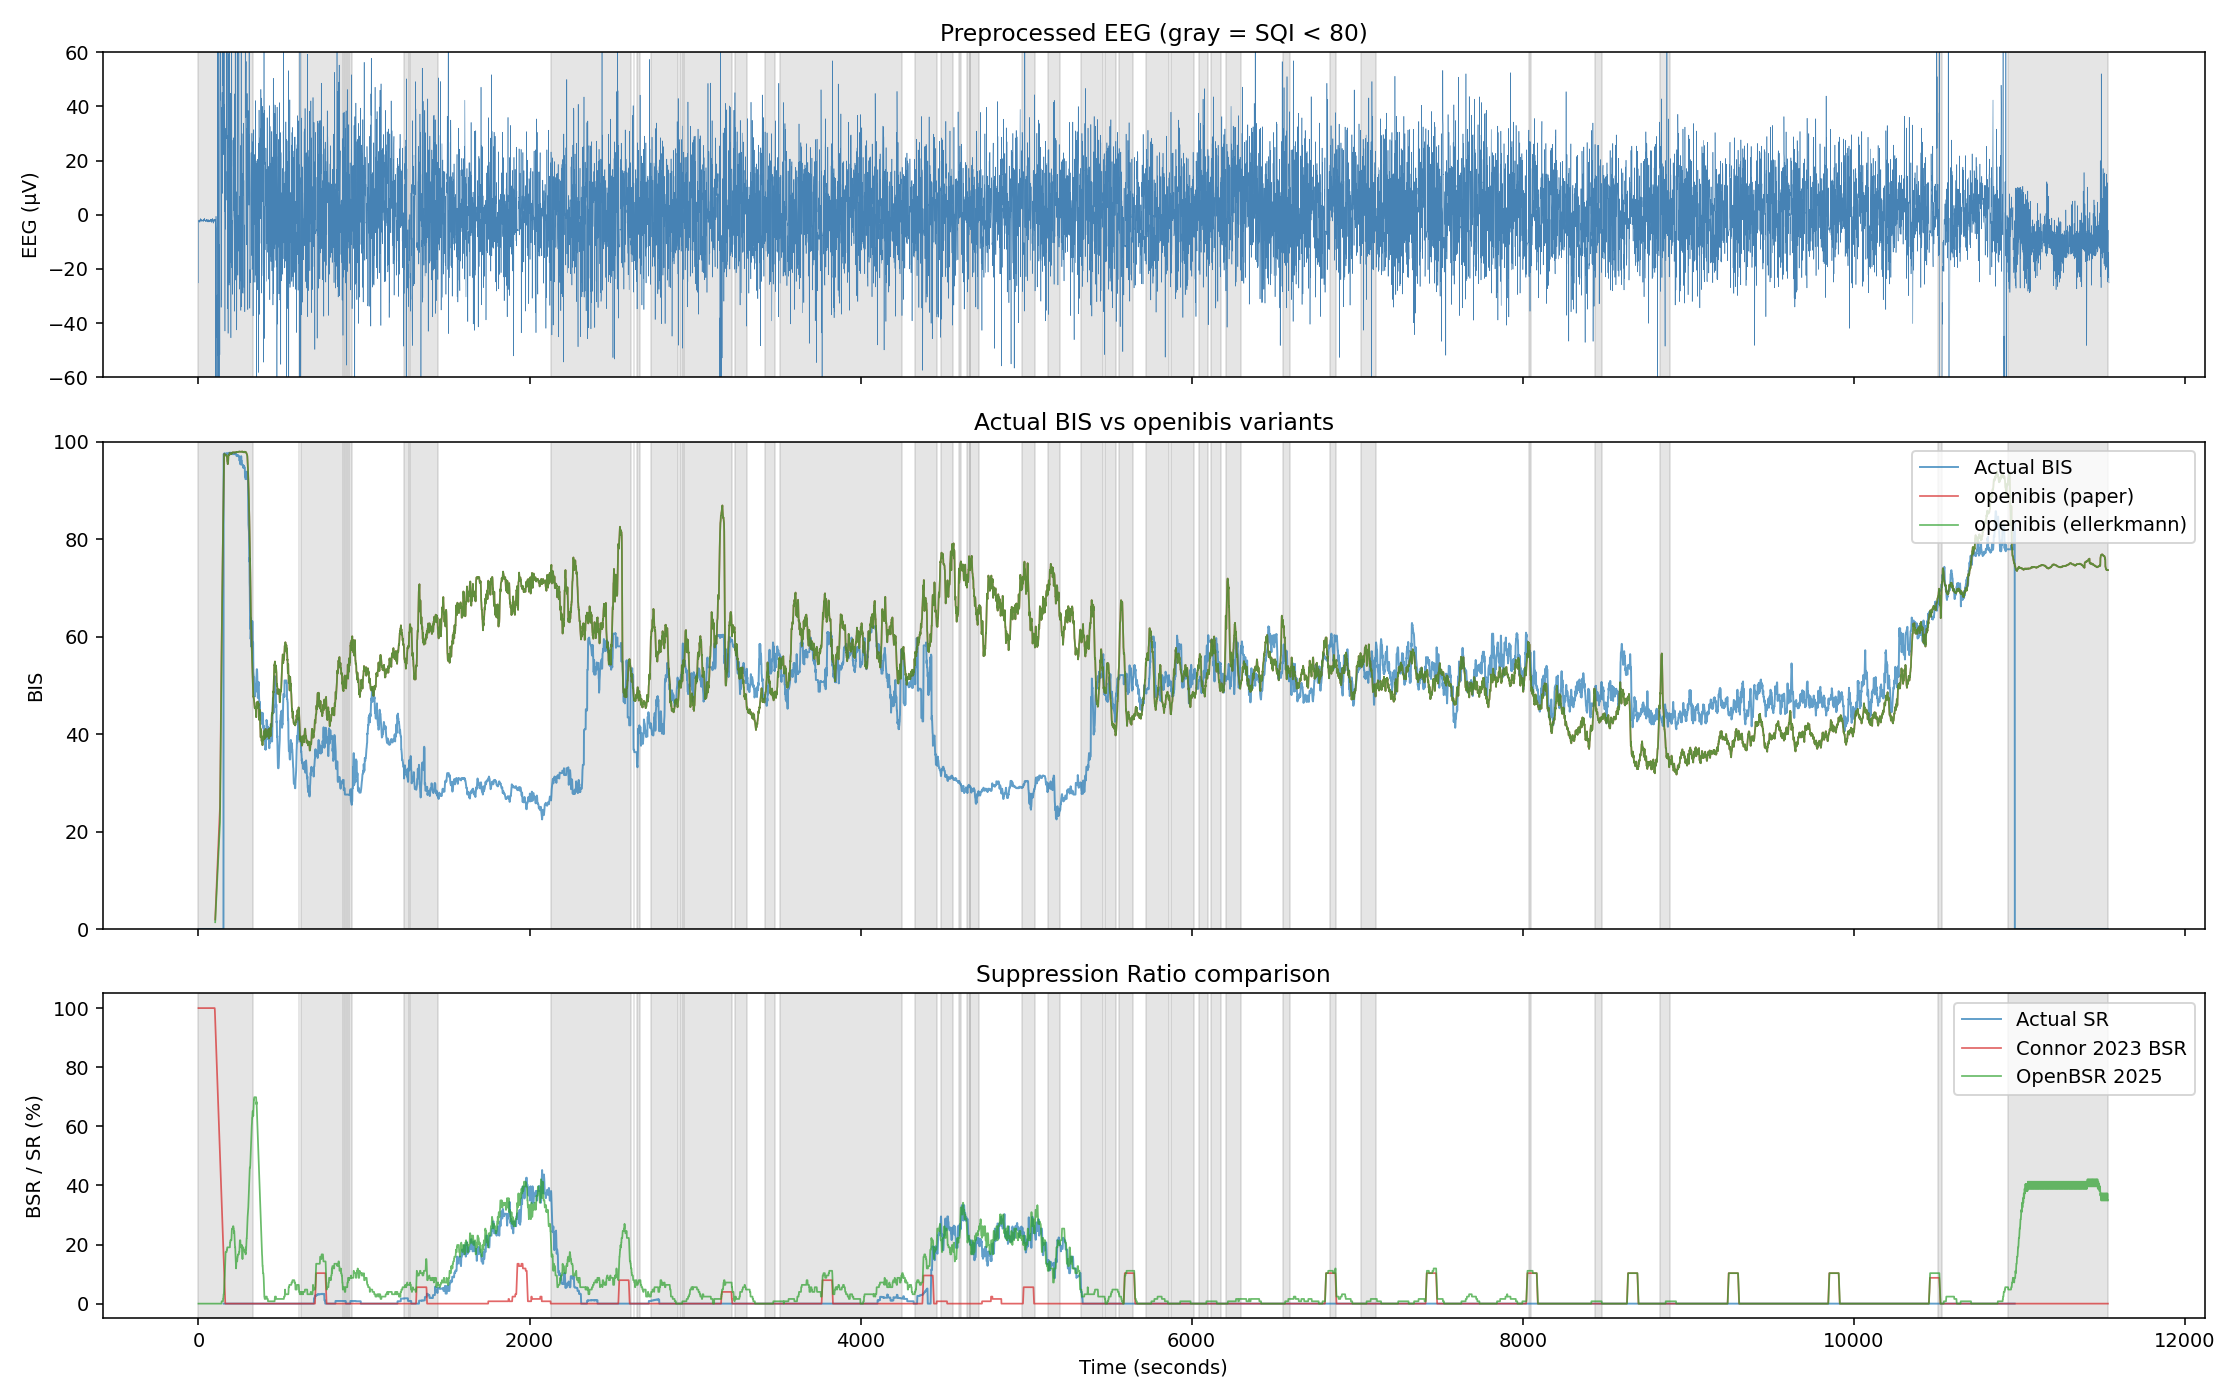
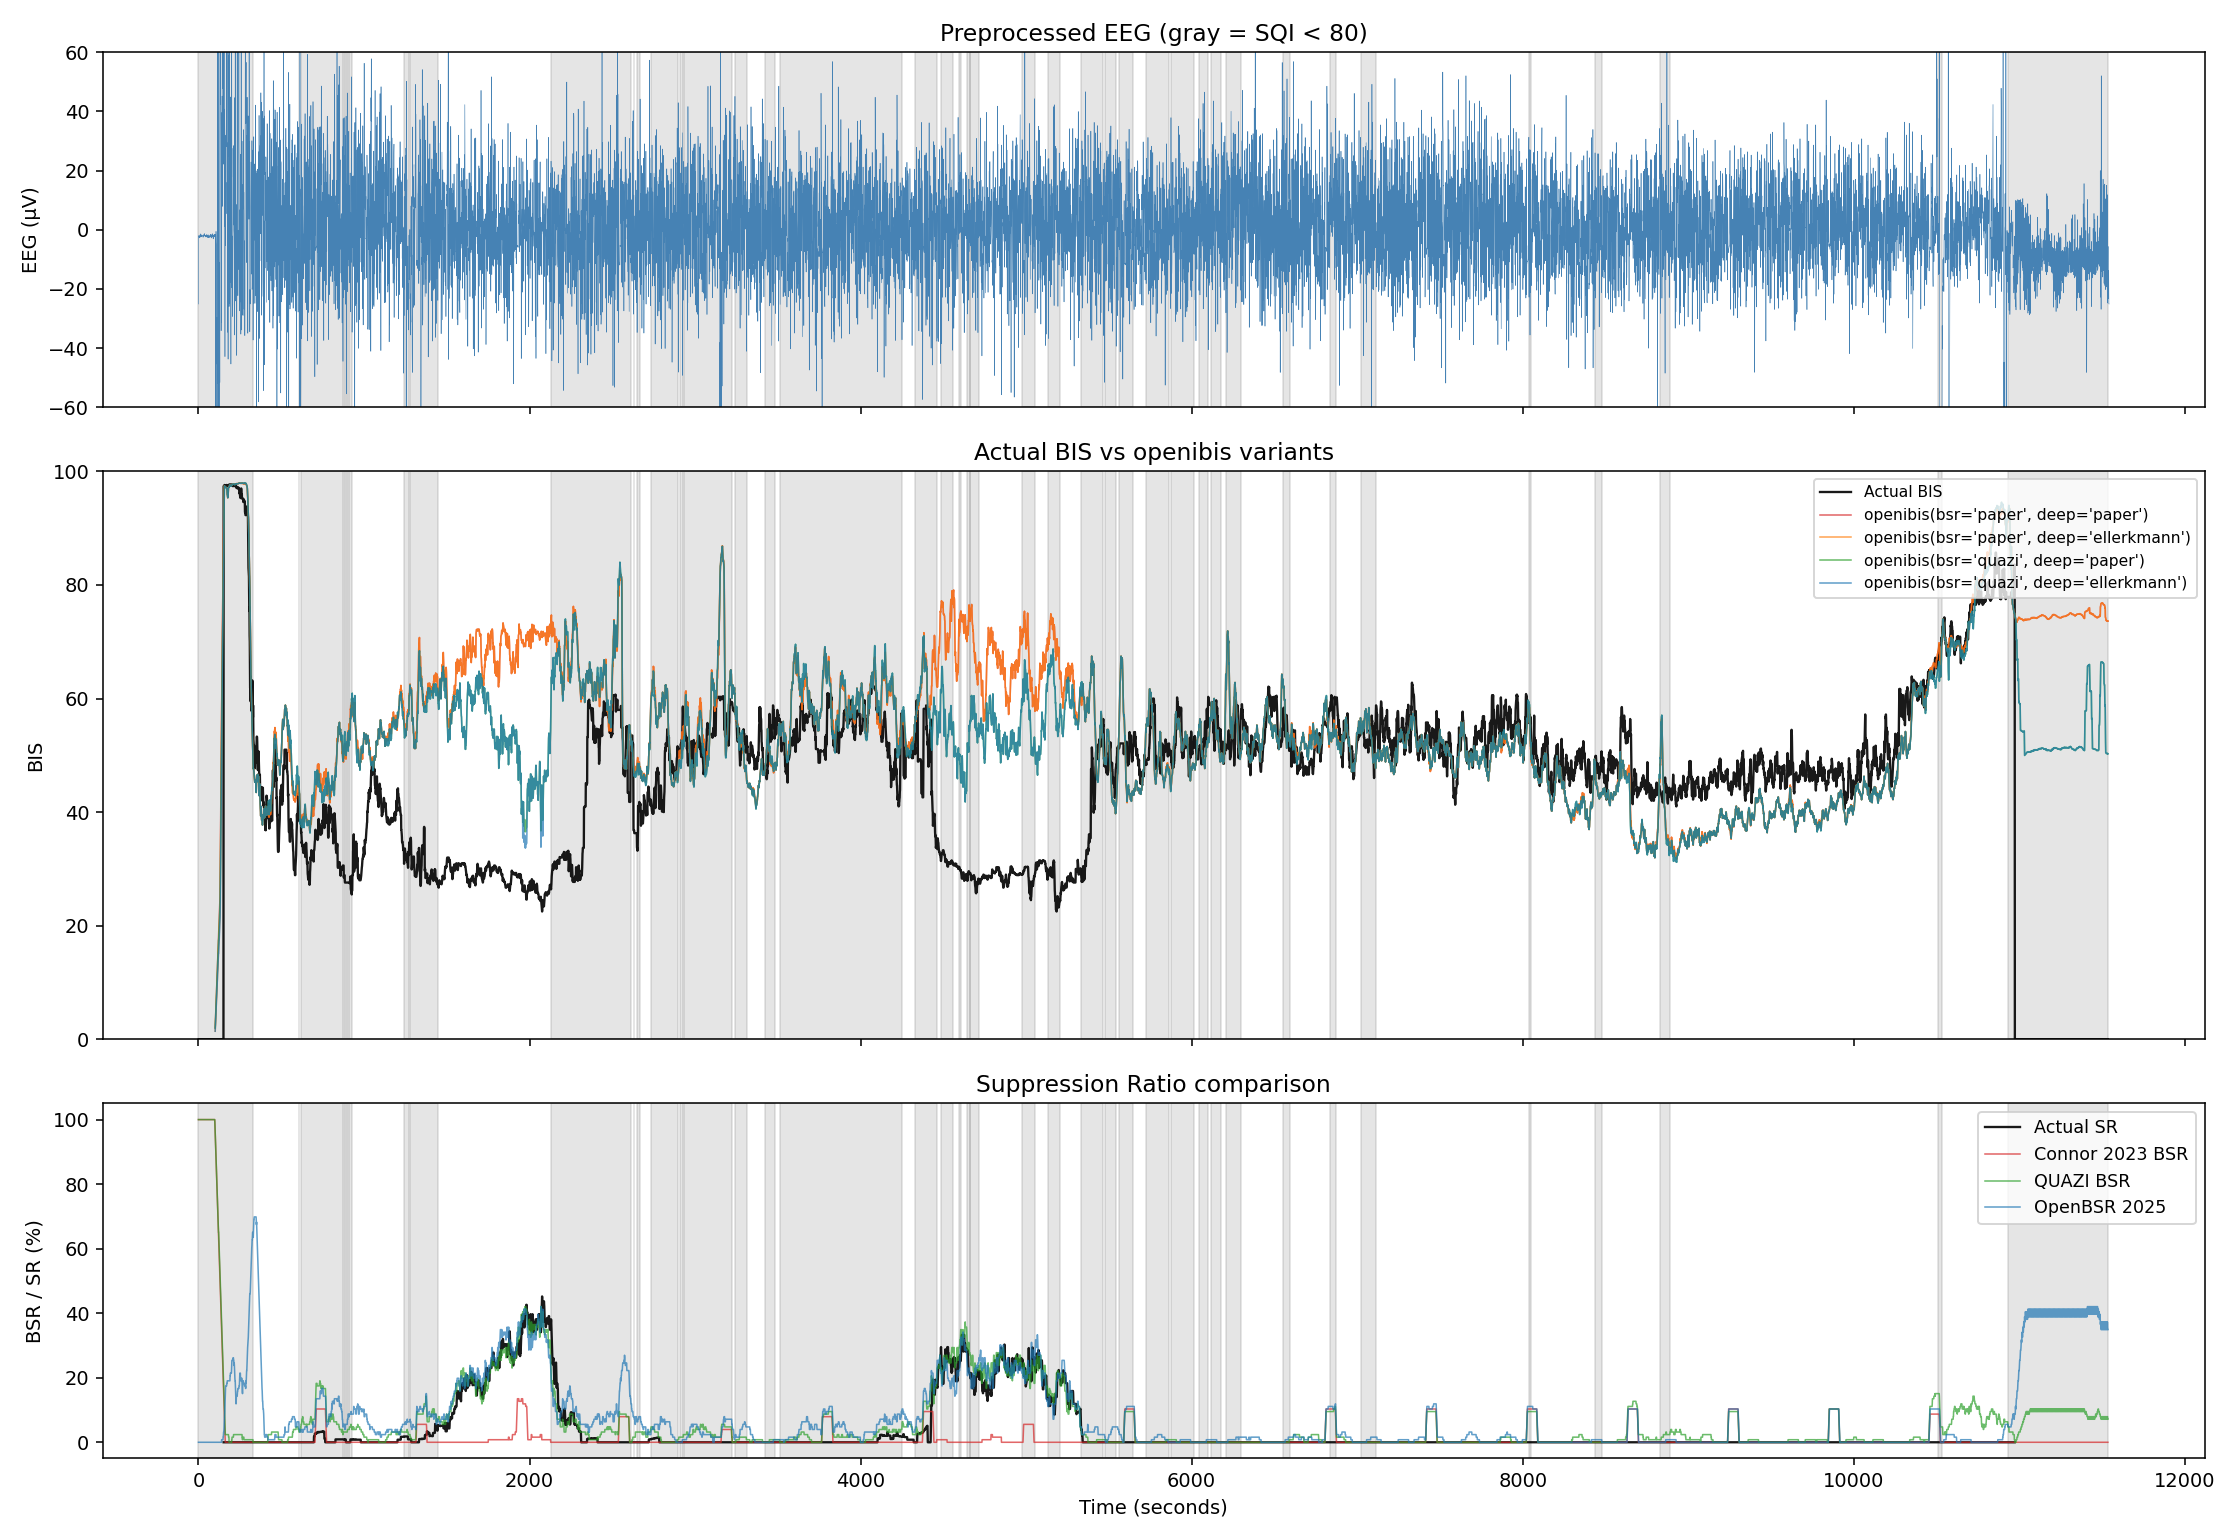
Add QUAZI-style BSR variant to openibis
openibis() now accepts bsr={"paper","quazi"}:
  * "paper" — Connor 2023 (no HP, 5 µV / 1-s, baseline-detrended)
  * "quazi" — pre-2023 BIS convention (1 Hz Butterworth HP +
     10 µV max|x| over 0.5 s); empirically tracks BIS Vista's SR

Validation on 1.vital, SQI>=80, N=6,752:
  openibis(paper, paper)        MAE=11.58  r=0.048  Lin_rc=0.043
  openibis(paper, ellerkmann)   MAE=11.58  r=0.048  Lin_rc=0.043
  openibis(quazi, paper)        MAE= 9.21  r=0.399  Lin_rc=0.379
  openibis(quazi, ellerkmann)   MAE= 9.20  r=0.400  Lin_rc=0.381
  bsr(paper)                    MAE= 4.59  r=0.121  Lin_rc=0.054
  bsr(quazi)                    MAE= 2.13  r=0.937  Lin_rc=0.922
  openbsr (Connor 2025)         MAE= 2.45  r=0.841  Lin_rc=0.821

QUAZI BSR is the strongest single-detector match against BIS Vista's
SR on this case. The remaining gap (r=0.40 on full BIS) is in the
paper mixer formula, which yields a ~20-point positive bias against
BIS Vista (BIS Vista vs BIS A-2000 calibration likely differs).
Vista-tuned mixer variant is Phase 2.

diff --git a/scripts/01_validate_1vital.py b/scripts/01_validate_1vital.py
@@ -1,14 +1,8 @@
 """Validate openibis variants on the bundled 1.vital case.
 
-Computes:
-  * openibis(deep="paper")
-  * openibis(deep="ellerkmann")
-  * Connor 2023 BSR
-  * OpenBSR 2025 (best-effort prose port)
-
-and compares all four against the BIS Vista's actual BIS / SR tracks.
-Filters to SQI ≥ 80 epochs only. Reports MAE, Pearson r, and Lin's
-concordance for each BIS variant, and MAE / r for both BSR variants.
+Computes the full bsr × deep grid plus standalone BSR detectors, and
+compares each against the BIS Vista's actual ``BIS/BIS`` and ``BIS/SR``
+tracks (SQI ≥ 80 epochs only).
 
 Usage::
 
@@ -21,7 +15,6 @@ from pathlib import Path
 
 import numpy as np
 
-# Make `openeeg` importable when running this script from repo root.
 sys.path.insert(0, str(Path(__file__).resolve().parents[1]))
 
 from openeeg import openibis, openbsr
@@ -37,7 +30,6 @@ SQI_THRESH = 80
 
 
 def lin_concordance(x: np.ndarray, y: np.ndarray) -> float:
-    """Lin's concordance correlation coefficient."""
     mx, my = x.mean(), y.mean()
     vx, vy = x.var(), y.var()
     cov = np.mean((x - mx) * (y - my))
@@ -45,10 +37,9 @@ def lin_concordance(x: np.ndarray, y: np.ndarray) -> float:
 
 
 def preprocess_eeg(raw: np.ndarray) -> np.ndarray:
-    """Interpolate short NaN gaps, zero-fill the rest, baseline-correct."""
     eeg = raw.copy()
     nan_mask = np.isnan(eeg)
-    max_gap = int(FS * 0.05)  # ≤50 ms gaps are interpolated
+    max_gap = int(FS * 0.05)
     diff = np.diff(np.concatenate(([0], nan_mask.astype(int), [0])))
     starts = np.where(diff == 1)[0]
     ends = np.where(diff == -1)[0]
@@ -58,6 +49,17 @@ def preprocess_eeg(raw: np.ndarray) -> np.ndarray:
     eeg[np.isnan(eeg)] = 0.0
     eeg = eeg - np.median(eeg[~nan_mask])
     return eeg
+
+
+def metrics(actual: np.ndarray, predicted: np.ndarray, valid: np.ndarray):
+    a, p = actual[valid], predicted[valid]
+    mae = float(np.mean(np.abs(p - a)))
+    if a.std() > 0 and p.std() > 0:
+        r = float(np.corrcoef(a, p)[0, 1])
+        rc = lin_concordance(a, p)
+    else:
+        r, rc = float("nan"), float("nan")
+    return mae, r, rc
 
 
 def main() -> None:
@@ -71,76 +73,66 @@ def main() -> None:
     eeg = preprocess_eeg(eeg_raw)
     print(f"  EEG samples: {len(eeg):,}  duration: {len(eeg)/FS/60:.1f} min")
 
-    print("Running openibis(deep='paper') ...")
-    bis_paper = openibis(eeg, deep="paper")
-    print("Running openibis(deep='ellerkmann') ...")
-    bis_eller = openibis(eeg, deep="ellerkmann")
-    print("Running Connor 2023 BSR ...")
-    bsr_c23 = openibis_bsr(eeg)
-    print("Running OpenBSR 2025 ...")
-    bsr_c25 = openbsr(eeg)
+    bis_grid = {}
+    for bsr_kind in ("paper", "quazi"):
+        for deep in ("paper", "ellerkmann"):
+            print(f"  openibis(bsr={bsr_kind!r}, deep={deep!r}) ...")
+            bis_grid[(bsr_kind, deep)] = openibis(eeg, bsr=bsr_kind, deep=deep)
 
-    # Align everything to 1 Hz (BIS Vista output rate)
-    bis_paper_1hz = bis_paper[::2]
-    bis_eller_1hz = bis_eller[::2]
-    bsr_c23_1hz = bsr_c23[::2]
-    bsr_c25_1hz = bsr_c25[::2]
+    print("  bsr(kind='paper') ...")
+    bsr_paper = openibis_bsr(eeg, kind="paper")
+    print("  bsr(kind='quazi') ...")
+    bsr_quazi = openibis_bsr(eeg, kind="quazi")
+    print("  openbsr() ...")
+    bsr_openbsr = openbsr(eeg)
 
-    n = min(len(bis_actual), len(bis_paper_1hz), len(sqi_actual), len(sr_actual))
+    bis_1hz = {k: v[::2] for k, v in bis_grid.items()}
+    bsr_paper_1hz = bsr_paper[::2]
+    bsr_quazi_1hz = bsr_quazi[::2]
+    bsr_openbsr_1hz = bsr_openbsr[::2]
+
+    n = min(len(bis_actual), *[len(v) for v in bis_1hz.values()],
+            len(sqi_actual), len(sr_actual))
     bis_actual = bis_actual[:n]
     sqi_actual = sqi_actual[:n]
     sr_actual = sr_actual[:n]
-    bis_paper_1hz = bis_paper_1hz[:n]
-    bis_eller_1hz = bis_eller_1hz[:n]
-    bsr_c23_1hz = bsr_c23_1hz[:n]
-    bsr_c25_1hz = bsr_c25_1hz[:n]
+    bis_1hz = {k: v[:n] for k, v in bis_1hz.items()}
+    bsr_paper_1hz = bsr_paper_1hz[:n]
+    bsr_quazi_1hz = bsr_quazi_1hz[:n]
+    bsr_openbsr_1hz = bsr_openbsr_1hz[:n]
 
-    # BIS metrics (SQI ≥ 80)
-    print("\n=== BIS comparison (SQI >= {}) ===".format(SQI_THRESH))
-    valid = (
+    valid_bis = (
         ~np.isnan(bis_actual)
-        & ~np.isnan(bis_paper_1hz)
-        & ~np.isnan(bis_eller_1hz)
         & ~np.isnan(sqi_actual)
         & (sqi_actual >= SQI_THRESH)
+        & np.all([~np.isnan(v) for v in bis_1hz.values()], axis=0)
     )
-    print(f"  N (valid epochs): {int(valid.sum()):,} / {n:,}")
+    print(f"\n=== BIS comparison (SQI>={SQI_THRESH}, N={int(valid_bis.sum()):,}) ===")
+    print(f"{'variant':<32s}  {'MAE':>6s}  {'r':>6s}  {'Lin_rc':>6s}")
+    for (bsr_kind, deep), pred in bis_1hz.items():
+        mae, r, rc = metrics(bis_actual, pred, valid_bis)
+        label = f"openibis(bsr={bsr_kind!r}, deep={deep!r})"
+        print(f"{label:<32s}  {mae:6.2f}  {r:6.3f}  {rc:6.3f}")
 
-    rows = []
-    for name, pred in [
-        ("openibis (paper)", bis_paper_1hz),
-        ("openibis (ellerkmann)", bis_eller_1hz),
-    ]:
-        a = bis_actual[valid]
-        p = pred[valid]
-        mae = float(np.mean(np.abs(p - a)))
-        r = float(np.corrcoef(a, p)[0, 1])
-        rc = lin_concordance(a, p)
-        rows.append((name, mae, r, rc))
-        print(f"  {name:30s}  MAE={mae:5.2f}   r={r:.3f}   Lin_rc={rc:.3f}")
-
-    # BSR metrics: compare against BIS Vista SR (which is its commercial BSR)
-    print("\n=== BSR comparison (SQI >= {}) ===".format(SQI_THRESH))
     valid_bsr = (
         ~np.isnan(sr_actual)
-        & ~np.isnan(bsr_c23_1hz)
-        & ~np.isnan(bsr_c25_1hz)
         & ~np.isnan(sqi_actual)
         & (sqi_actual >= SQI_THRESH)
+        & ~np.isnan(bsr_paper_1hz)
+        & ~np.isnan(bsr_quazi_1hz)
+        & ~np.isnan(bsr_openbsr_1hz)
     )
-    print(f"  N (valid epochs): {int(valid_bsr.sum()):,}")
+    print(f"\n=== BSR comparison (SQI>={SQI_THRESH}, N={int(valid_bsr.sum()):,}) ===")
+    print(f"{'variant':<32s}  {'MAE':>6s}  {'r':>6s}  {'Lin_rc':>6s}")
     for name, pred in [
-        ("Connor 2023 BSR", bsr_c23_1hz),
-        ("OpenBSR 2025", bsr_c25_1hz),
+        ("Connor 2023 BSR (paper)", bsr_paper_1hz),
+        ("QUAZI BSR", bsr_quazi_1hz),
+        ("OpenBSR 2025", bsr_openbsr_1hz),
     ]:
-        a = sr_actual[valid_bsr]
-        p = pred[valid_bsr]
-        mae = float(np.mean(np.abs(p - a)))
-        r = float(np.corrcoef(a, p)[0, 1]) if a.std() > 0 and p.std() > 0 else float("nan")
-        rc = lin_concordance(a, p) if a.std() > 0 and p.std() > 0 else float("nan")
-        print(f"  {name:30s}  MAE={mae:5.2f}   r={r:.3f}   Lin_rc={rc:.3f}")
+        mae, r, rc = metrics(sr_actual, pred, valid_bsr)
+        print(f"{name:<32s}  {mae:6.2f}  {r:6.3f}  {rc:6.3f}")
 
-    # Plot
+    # Plot grid
     t = np.arange(n)
     low_sqi = np.isnan(sqi_actual) | (sqi_actual < SQI_THRESH)
     shade = []
@@ -155,8 +147,8 @@ def main() -> None:
     if in_low:
         shade.append((start, n))
 
-    fig, axes = plt.subplots(3, 1, figsize=(16, 10), sharex=True,
-                             gridspec_kw={"height_ratios": [1, 1.5, 1]})
+    fig, axes = plt.subplots(3, 1, figsize=(16, 11), sharex=True,
+                             gridspec_kw={"height_ratios": [1, 1.6, 1]})
 
     t_eeg = np.arange(len(eeg)) / FS
     axes[0].plot(t_eeg[::FS], eeg[::FS], lw=0.3, color="steelblue")
@@ -166,25 +158,33 @@ def main() -> None:
     axes[0].set_title("Preprocessed EEG (gray = SQI < 80)")
     axes[0].set_ylim(-60, 60)
 
-    axes[1].plot(t, bis_actual, lw=1.0, color="tab:blue", alpha=0.7, label="Actual BIS")
-    axes[1].plot(t, bis_paper_1hz, lw=0.9, color="tab:red", alpha=0.7, label="openibis (paper)")
-    axes[1].plot(t, bis_eller_1hz, lw=0.9, color="tab:green", alpha=0.7, label="openibis (ellerkmann)")
+    axes[1].plot(t, bis_actual, lw=1.2, color="black", alpha=0.9, label="Actual BIS")
+    colors = {
+        ("paper", "paper"): "tab:red",
+        ("paper", "ellerkmann"): "tab:orange",
+        ("quazi", "paper"): "tab:green",
+        ("quazi", "ellerkmann"): "tab:blue",
+    }
+    for key, pred in bis_1hz.items():
+        axes[1].plot(t, pred, lw=0.8, color=colors[key], alpha=0.7,
+                     label=f"openibis(bsr={key[0]!r}, deep={key[1]!r})")
     for s0, s1 in shade:
         axes[1].axvspan(s0, s1, color="gray", alpha=0.2)
     axes[1].set_ylabel("BIS")
     axes[1].set_title("Actual BIS vs openibis variants")
     axes[1].set_ylim(0, 100)
-    axes[1].legend(loc="upper right")
+    axes[1].legend(loc="upper right", fontsize=8)
 
-    axes[2].plot(t, sr_actual, lw=1.0, color="tab:blue", alpha=0.7, label="Actual SR")
-    axes[2].plot(t, bsr_c23_1hz, lw=0.9, color="tab:red", alpha=0.7, label="Connor 2023 BSR")
-    axes[2].plot(t, bsr_c25_1hz, lw=0.9, color="tab:green", alpha=0.7, label="OpenBSR 2025")
+    axes[2].plot(t, sr_actual, lw=1.2, color="black", alpha=0.9, label="Actual SR")
+    axes[2].plot(t, bsr_paper_1hz, lw=0.8, color="tab:red", alpha=0.7, label="Connor 2023 BSR")
+    axes[2].plot(t, bsr_quazi_1hz, lw=0.8, color="tab:green", alpha=0.7, label="QUAZI BSR")
+    axes[2].plot(t, bsr_openbsr_1hz, lw=0.8, color="tab:blue", alpha=0.7, label="OpenBSR 2025")
     for s0, s1 in shade:
         axes[2].axvspan(s0, s1, color="gray", alpha=0.2)
     axes[2].set_ylabel("BSR / SR (%)")
     axes[2].set_xlabel("Time (seconds)")
     axes[2].set_title("Suppression Ratio comparison")
-    axes[2].legend(loc="upper right")
+    axes[2].legend(loc="upper right", fontsize=9)
 
     plt.tight_layout()
     out = Path(__file__).resolve().parents[1] / "validate_1vital.png"

diff --git a/openeeg/openibis.py b/openeeg/openibis.py
@@ -84,14 +84,26 @@ def _mean_band_power_db(psd_arr: np.ndarray, lo: float, hi: float) -> float:
     return float(np.mean(10.0 * np.log10(np.maximum(valid, 1e-30))))
 
 
-# ----- burst-suppression detector (Connor 2023) -----------------------------
+# ----- burst-suppression detectors ------------------------------------------
 
-def _bsr(eeg: np.ndarray) -> tuple[np.ndarray, np.ndarray]:
-    """Burst-suppression detector per Connor 2023.
+def _trailing_bsr_pct(BSRmap: np.ndarray) -> np.ndarray:
+    """Trailing 63-second mean of a per-epoch suppression flag, in percent."""
+    K = int(63.0 / STRIDE_SEC)
+    cs = np.concatenate([[0.0], np.cumsum(BSRmap.astype(float))])
+    BSR = np.empty(len(BSRmap))
+    for i in range(len(BSRmap)):
+        j = max(0, i - K + 1)
+        BSR[i] = (cs[i + 1] - cs[j]) / (i - j + 1)
+    return 100.0 * BSR
+
+
+def _bsr_paper(eeg: np.ndarray) -> tuple[np.ndarray, np.ndarray]:
+    """Connor 2023 paper-faithful burst-suppression detector.
 
     For each 0.5-s epoch, examine a 1-second window starting at sample
     ``(n + 6.5) * STRIDE``. The window is marked suppressed if every
-    sample stays within ±5 µV of its linear regression baseline.
+    sample stays within ±5 µV of its linear regression baseline. No
+    high-pass filter is applied prior to the amplitude test.
 
     Returns
     -------
@@ -110,14 +122,40 @@ def _bsr(eeg: np.ndarray) -> tuple[np.ndarray, np.ndarray]:
         seg = eeg[s:e]
         BSRmap[n] = bool(np.all(np.abs(seg - _baseline(seg)) <= 5.0))
 
-    # Trailing 63-second mean = 126 strides
-    K = int(63.0 / STRIDE_SEC)
-    cs = np.concatenate([[0.0], np.cumsum(BSRmap.astype(float))])
-    BSR = np.empty(N)
-    for i in range(N):
-        j = max(0, i - K + 1)
-        BSR[i] = (cs[i + 1] - cs[j]) / (i - j + 1)
-    return BSRmap, 100.0 * BSR
+    return BSRmap, _trailing_bsr_pct(BSRmap)
+
+
+def _bsr_quazi(eeg: np.ndarray) -> tuple[np.ndarray, np.ndarray]:
+    """QUAZI-style burst-suppression detector (pre-2023 BIS convention).
+
+    Applies a 2nd-order 1 Hz Butterworth high-pass (zero-phase), then
+    declares a 0.5-second window suppressed if its maximum absolute
+    value is below 10 µV. Empirically tracks the BIS Vista's published
+    suppression-ratio track better than the Connor 2023 paper variant
+    on the VitalDB BIS cohort.
+    """
+    N = _n_epochs(eeg)
+    BSRmap = np.zeros(N, dtype=bool)
+    b, a = signal.butter(2, 1.0 / (FS / 2.0), "high")
+    eeg_hp = signal.filtfilt(b, a, eeg)
+
+    for n in range(N):
+        s = int((n + 6.5) * STRIDE)
+        e = s + STRIDE
+        if e > len(eeg_hp):
+            continue
+        BSRmap[n] = bool(np.max(np.abs(eeg_hp[s:e])) < 10.0)
+
+    return BSRmap, _trailing_bsr_pct(BSRmap)
+
+
+def _bsr(eeg: np.ndarray, kind: str = "paper") -> tuple[np.ndarray, np.ndarray]:
+    """Dispatch to a named burst-suppression detector."""
+    if kind == "paper":
+        return _bsr_paper(eeg)
+    elif kind == "quazi":
+        return _bsr_quazi(eeg)
+    raise ValueError(f"Unknown BSR detector: {kind!r}; expected 'paper' or 'quazi'.")
 
 
 # ----- sawtooth (K-complex / artifact) detector -----------------------------
@@ -259,7 +297,7 @@ def _mixer_ellerkmann(components: np.ndarray, BSR: np.ndarray) -> np.ndarray:
 
 # ----- public entry point ----------------------------------------------------
 
-def openibis(eeg, fs: int = 128, deep: str = "paper") -> np.ndarray:
+def openibis(eeg, fs: int = 128, bsr: str = "paper", deep: str = "paper") -> np.ndarray:
     """Compute openibis BIS-mimic from raw EEG.
 
     Parameters
@@ -268,6 +306,14 @@ def openibis(eeg, fs: int = 128, deep: str = "paper") -> np.ndarray:
         Raw EEG in microvolts. Must be sampled at 128 Hz (BIS standard).
     fs : int, default 128
         Sampling frequency, in Hz. Only 128 is currently supported.
+    bsr : {"paper", "quazi"}, default "paper"
+        Burst-suppression detector:
+          * ``"paper"`` — Connor 2023: no high-pass, 5 µV threshold on
+            ``|x − baseline(x)|`` over a 1-second window.
+          * ``"quazi"`` — pre-2023 BIS convention: 1 Hz Butterworth
+            high-pass then 10 µV ``max|x|`` over a 0.5-second window.
+            Empirically tracks BIS Vista's published SR more closely on
+            VitalDB cases.
     deep : {"paper", "ellerkmann"}, default "paper"
         Deep-anaesthesia (burst-suppression) scoring rule:
           * ``"paper"``      — Connor 2023, score = 50 − BSR/2.
@@ -285,18 +331,21 @@ def openibis(eeg, fs: int = 128, deep: str = "paper") -> np.ndarray:
     if deep not in {"paper", "ellerkmann"}:
         raise ValueError(f"deep must be 'paper' or 'ellerkmann'; got {deep!r}.")
 
-    BSRmap, BSR = _bsr(eeg)
+    BSRmap, BSR = _bsr(eeg, kind=bsr)
     comp = _components(eeg, BSRmap)
     return _mixer_paper(comp, BSR) if deep == "paper" else _mixer_ellerkmann(comp, BSR)
 
 
-def bsr(eeg, fs: int = 128) -> np.ndarray:
-    """Compute Connor-2023 burst-suppression ratio (percent) at 2 Hz.
+def bsr(eeg, fs: int = 128, kind: str = "paper") -> np.ndarray:
+    """Burst-suppression ratio (percent) at 2 Hz.
 
-    Convenience wrapper that returns only the BSR trajectory.
+    Parameters
+    ----------
+    eeg : array-like, 1-D — raw EEG in µV, 128 Hz.
+    kind : {"paper", "quazi"} — detector choice; see :func:`openibis`.
     """
     eeg = np.asarray(eeg, dtype=float)
     if fs != FS:
         raise ValueError(f"bsr() requires fs=128; got {fs}.")
-    _, BSR = _bsr(eeg)
+    _, BSR = _bsr(eeg, kind=kind)
     return BSR

diff --git a/tests/test_smoke.py b/tests/test_smoke.py
@@ -34,6 +34,18 @@ def test_openibis_ellerkmann_shape():
     assert out.shape == (expected_n_epochs(len(eeg)),)
 
 
+def test_openibis_quazi_bsr_shape():
+    eeg = make_eeg()
+    out = openibis(eeg, bsr="quazi", deep="paper")
+    assert out.shape == (expected_n_epochs(len(eeg)),)
+
+
+def test_openibis_rejects_bad_bsr():
+    import pytest
+    with pytest.raises(ValueError):
+        openibis(make_eeg(), bsr="banana")
+
+
 def test_openibis_rejects_bad_deep():
     import pytest
     with pytest.raises(ValueError):